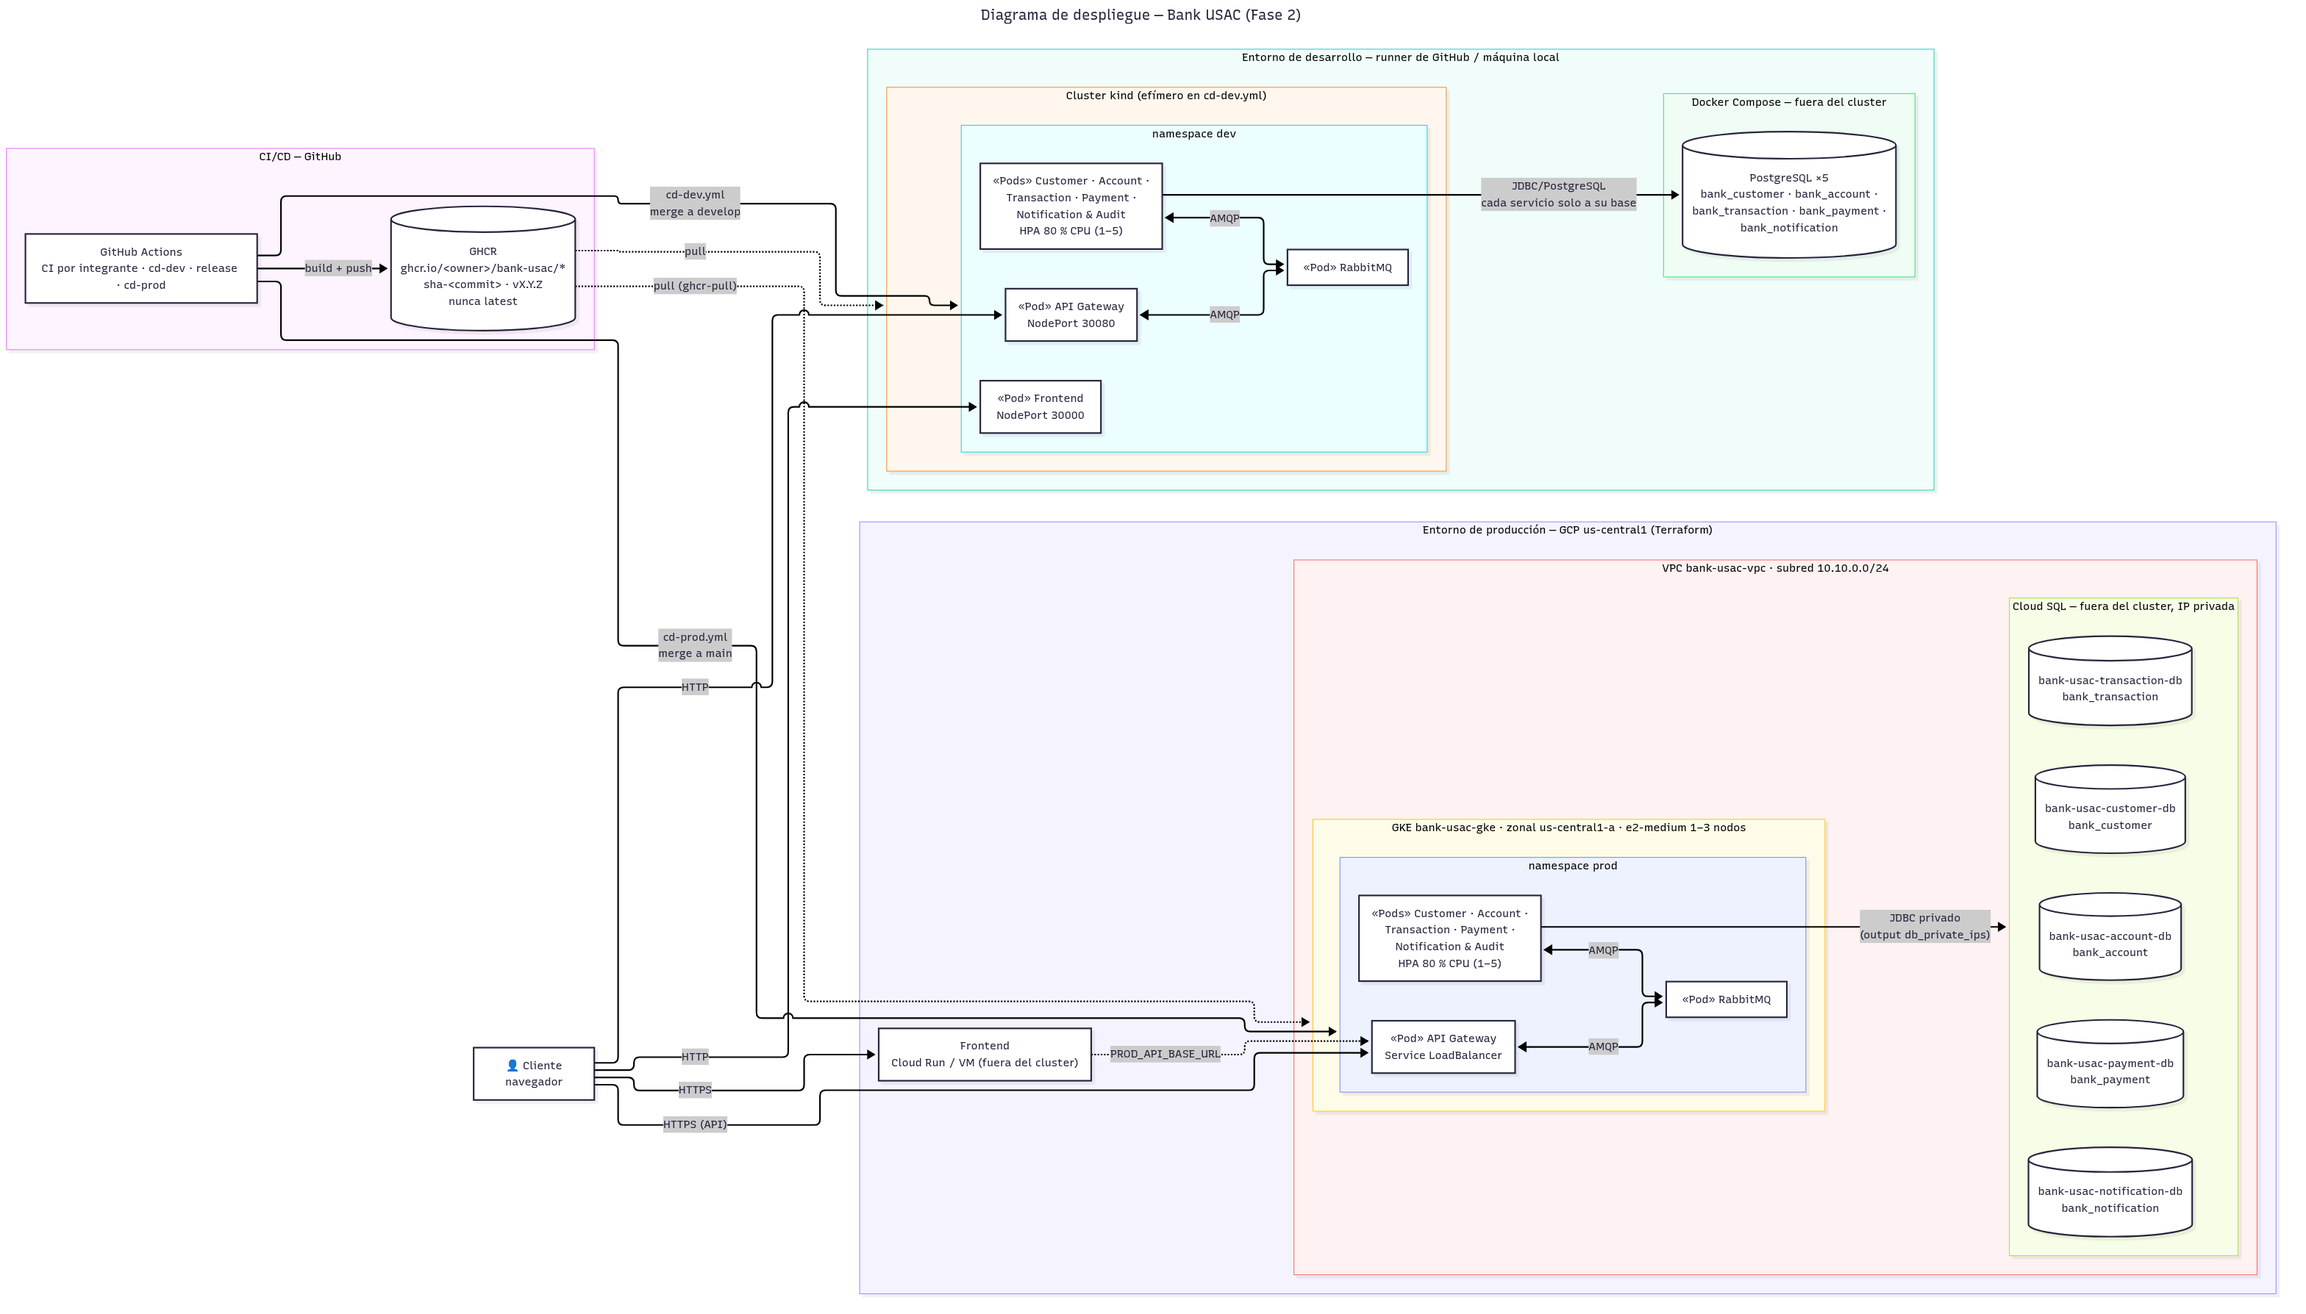
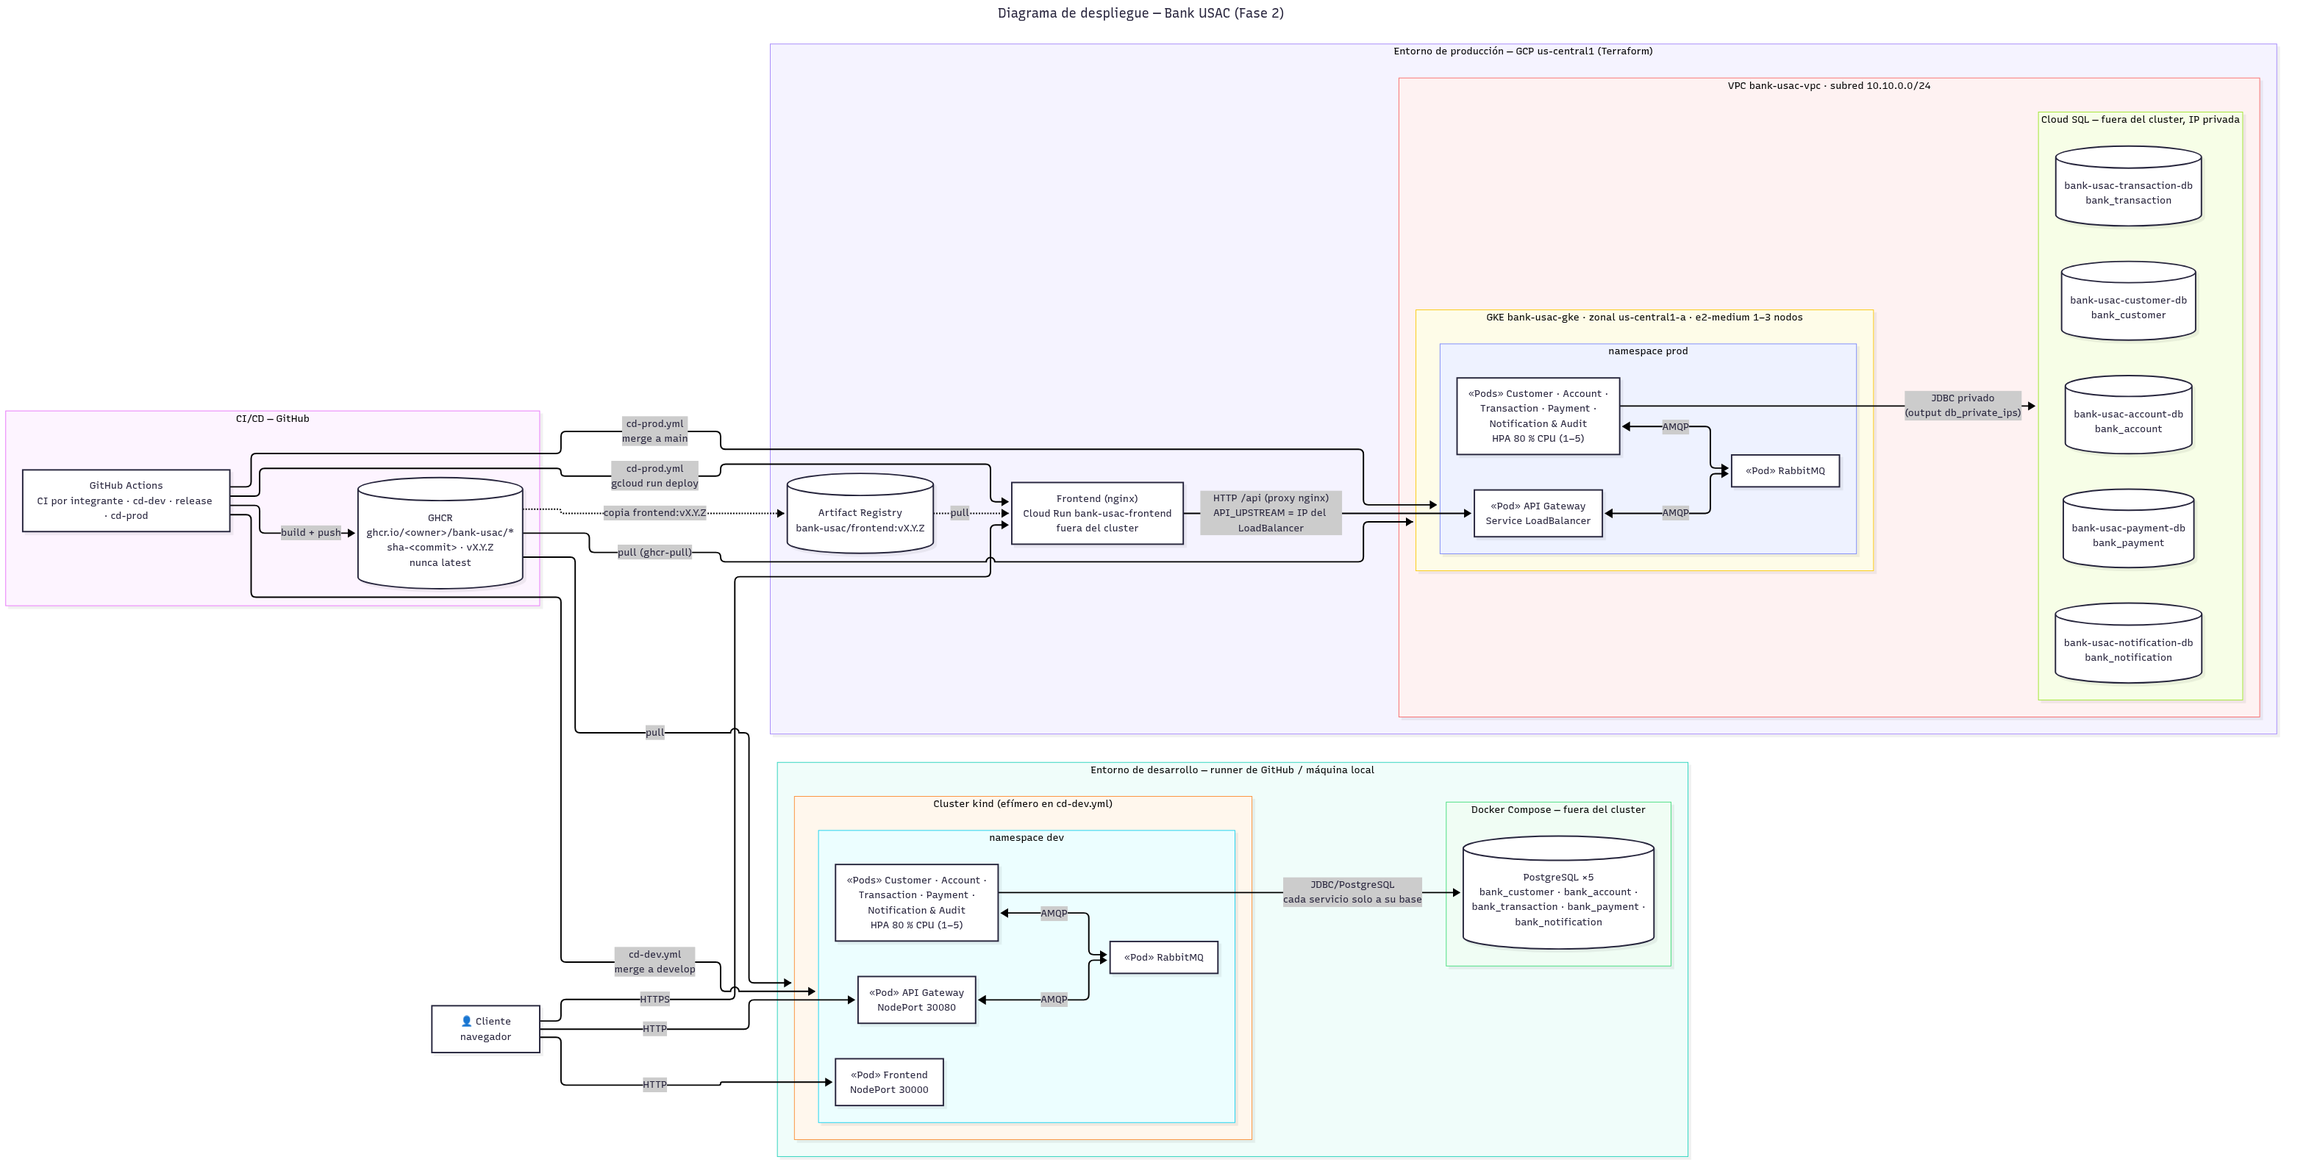
feat(prod): frontend en Cloud Run por pipeline (nginx con proxy /api, Artifact Registry en Terraform, cd-prod.yml) y diagramas/docs actualizados (Fase 2)

diff --git a/docs/04-despliegue/04-ci-cd.md b/docs/04-despliegue/04-ci-cd.md
@@ -128,7 +128,7 @@ Mientras no exista un cluster persistente, `reusable-kind-smoke.yml` crea un clu
 
 1. Crear la rama `release/X.Y.Z` desde `develop` (por ejemplo `release/2.0.0`) y hacer push.
 2. `release.yml` ejecuta, en orden:
-   1. **version:** valida que la rama se llame `release/X.Y.Z` y que el tag `vX.Y.Z` no exista. Avisa si falta la variable `PROD_API_BASE_URL`.
+   1. **version:** valida que la rama se llame `release/X.Y.Z` y que el tag `vX.Y.Z` no exista.
    2. **images:** construye y publica las 7 imágenes candidatas `:vX.Y.Z-rc.<n>` (`n` = número de ejecución del workflow).
    3. **smoke:** despliega las candidatas en kind y corre el smoke test (`reusable-kind-smoke.yml`).
    4. **promote:** copia cada candidata a `:vX.Y.Z` con `docker buildx imagetools create`. No recompila: la imagen final tiene el mismo digest que la que pasó el smoke test.
@@ -136,7 +136,7 @@ Mientras no exista un cluster persistente, `reusable-kind-smoke.yml` crea un clu
 3. Si el workflow falla antes de **promote**, `:vX.Y.Z` no existe: se corrige en la misma rama `release/X.Y.Z` y el push vuelve a ejecutarlo.
 4. Un tag publicado no se reescribe. Si hace falta un fix después, se abre `release/X.Y.(Z+1)`.
 
-La URL pública del Gateway que se compila en el frontend se toma de la variable del repositorio `PROD_API_BASE_URL` (Settings → Secrets and variables → Actions → Variables). Si no está definida, el frontend apunta a `http://localhost:8080` y el workflow lo avisa.
+El frontend de la release se compila sin URL del Gateway (`VITE_API_BASE_URL` vacío): llama a `/api` en su mismo origen y nginx lo reenvía al Gateway en producción. Así la misma imagen sirve para cualquier IP del Gateway.
 
 ## Producción
 
@@ -144,9 +144,9 @@ La URL pública del Gateway que se compila en el frontend se toma de la variable
 
 - Imágenes `ghcr.io/<owner>/bank-usac/<servicio>:vX.Y.Z`; `cd-prod.yml` fija la versión con `kustomize edit set image`.
 - Bases de datos en Cloud SQL por IP privada, puerto 5432 y los nombres de `infrastructure/terraform/cloudsql.tf`. Los hosts salen de `terraform output -json db_private_ips` y el Secret `bank-db-secret` lo crea el workflow; en git no hay credenciales.
-- El Gateway se publica con un Service `LoadBalancer`. El frontend no corre en el cluster: va en Cloud Run/VM y su URL del Gateway es la variable `PROD_API_BASE_URL` de `release.yml`.
+- El Gateway se publica con un Service `LoadBalancer`. El frontend no corre en el cluster: va en **Cloud Run** (`bank-usac-frontend`), con nginx sirviendo la SPA por HTTPS y reenviando `/api` al LoadBalancer del Gateway (`API_UPSTREAM`).
 
-`cd-prod.yml` (merge a `main`): toma el último tag `vX.Y.Z` alcanzable desde `main`, verifica que las 6 imágenes existan en GHCR, se autentica en GCP, crea el namespace, el Secret de DB y el acceso a GHCR (`ghcr-pull`), aplica el overlay y espera cada rollout. Si algo falla, imprime pods y logs.
+`cd-prod.yml` (merge a `main`): toma el último tag `vX.Y.Z` alcanzable desde `main`, verifica que las 7 imágenes existan en GHCR, se autentica en GCP, crea el namespace, el Secret de DB y el acceso a GHCR (`ghcr-pull`), aplica el overlay y espera cada rollout. Después publica el frontend: copia `frontend:vX.Y.Z` de GHCR a Artifact Registry (Cloud Run no descarga de GHCR; mismo tag, sin recompilar), lee la IP del LoadBalancer del Gateway y hace `gcloud run deploy` con `API_UPSTREAM=http://<IP>:8080`. Cloud Run crea una revisión nueva y mueve el tráfico cuando está lista. Al final comprueba que la SPA responda y que `/api/accounts` devuelva 401 (el proxy llega al Gateway), y deja las dos URL en el resumen del run. Si algo falla, imprime pods y logs.
 
 Configuración del repositorio (Settings → Secrets and variables → Actions):
 
@@ -157,6 +157,9 @@ Configuración del repositorio (Settings → Secrets and variables → Actions):
 | Secret | `GHCR_PULL_TOKEN` | Token con `read:packages` para que GKE descargue las imágenes |
 | Variable | `GKE_CLUSTER` / `GKE_LOCATION` | Nombre y zona del cluster |
 | Variable | `PROD_DB_PRIVATE_IPS` | Salida de `terraform output -json db_private_ips` |
+| Variable | `GAR_REPOSITORY` | Salida de `terraform output -raw frontend_registry` |
+| Variable | `FRONTEND_RUN_SA` | Salida de `terraform output -raw frontend_run_service_account` |
+| Variable | `GCP_REGION` | Región de Cloud Run (opcional, `us-central1` por defecto) |
 
 ## Rollback
 
@@ -164,12 +167,13 @@ Configuración del repositorio (Settings → Secrets and variables → Actions):
 - **Release fallida:** si falla antes de **promote** no se publicó ninguna versión final; las imágenes `-rc.<n>` solo son candidatas y no se despliegan en producción.
 - **Producción:** se vuelve a la versión anterior, que sigue publicada porque las imágenes `vX.Y.Z` nunca se sobrescriben.
   - Inmediato: `kubectl -n prod rollout undo deployment/<servicio>` regresa al ReplicaSet anterior con rolling update.
+  - Frontend: `gcloud run services update-traffic bank-usac-frontend --region us-central1 --to-revisions <revisión anterior>=100` (las revisiones anteriores se conservan).
   - Definitivo: volver a desplegar la versión anterior (`kustomize edit set image bank-usac/<servicio>=ghcr.io/<owner>/bank-usac/<servicio>:v<anterior>`), y corregir con una `release/X.Y.(Z+1)`.
 
 ## Pendiente (depende de la infraestructura de producción)
 
-- `terraform apply` de `infrastructure/terraform` (red, Cloud SQL y GKE; ver [Terraform](05-terraform-cloud-sql.md)) y la configuración de la tabla anterior. Hasta entonces `cd-prod.yml` se omite.
-- Despliegue del frontend en Cloud Run/VM.
+- `terraform apply` de `frontend.tf` (Artifact Registry y permisos de Cloud Run; ver [Terraform](05-terraform-cloud-sql.md)) y las variables `GAR_REPOSITORY` y `FRONTEND_RUN_SA` de la tabla anterior.
+- Primera release (`release/X.Y.Z` → tag → merge a `main`).
 
 ## Configuración del repositorio (una vez, requiere admin)
 

diff --git a/docs/04-despliegue/05-terraform-cloud-sql.md b/docs/04-despliegue/05-terraform-cloud-sql.md
@@ -1,6 +1,6 @@
 # Terraform — Infraestructura de producción en GCP (Fase 2)
 
-Toda la infraestructura de producción se crea con Terraform desde `infrastructure/terraform/`: red, bases de datos (Cloud SQL) y cluster de Kubernetes (GKE). Nada se crea a mano en la consola, salvo el bucket del estado (ver [Estado remoto](#estado-remoto)). Las decisiones y sus trade-offs están en los ADR-009 a ADR-012 de [Decisiones de arquitectura](../01-arquitectura/05-decisiones-arquitectura.md).
+Toda la infraestructura de producción se crea con Terraform desde `infrastructure/terraform/`: red, bases de datos (Cloud SQL), cluster de Kubernetes (GKE) y lo que usa el frontend en Cloud Run (Artifact Registry y permisos). Nada se crea a mano en la consola, salvo el bucket del estado (ver [Estado remoto](#estado-remoto)). Las decisiones y sus trade-offs están en los ADR-009 a ADR-012 de [Decisiones de arquitectura](../01-arquitectura/05-decisiones-arquitectura.md).
 
 ## Qué provisiona
 
@@ -15,6 +15,10 @@ Toda la infraestructura de producción se crea con Terraform desde `infrastructu
 | `gke.tf` | `google_container_cluster.gke` | Cluster `bank-usac-gke`, Standard **zonal** en `us-central1-a`, en `bank-usac-vpc`, canal `REGULAR`. El node pool por defecto se elimina |
 | `gke.tf` | `google_container_node_pool.primary` | Node pool `bank-usac-pool`: `e2-medium`, disco `pd-standard` de 30 GB, cluster autoscaler de 1 a 3 nodos, auto-repair y auto-upgrade |
 | `gke.tf` | `google_service_account.github_deployer` + `google_project_iam_member.github_deployer_gke` | Service account `github-deployer` con `roles/container.developer`, que usa `cd-prod.yml` para desplegar |
+| `frontend.tf` | `google_project_service.run` / `.artifactregistry` | Habilita las API de Cloud Run y Artifact Registry |
+| `frontend.tf` | `google_artifact_registry_repository.images` | Repositorio Docker `bank-usac` en `us-central1`, donde `cd-prod.yml` copia `frontend:vX.Y.Z` (Cloud Run no descarga de GHCR) |
+| `frontend.tf` | `google_service_account.frontend_run` | Identidad sin roles con la que corre el servicio Cloud Run `bank-usac-frontend` |
+| `frontend.tf` | IAM de `github-deployer` | `roles/artifactregistry.writer` en el repositorio, `roles/run.admin` y `roles/iam.serviceAccountUser` sobre `frontend-run`, para publicar la imagen y desplegar |
 
 El cluster va en la **misma VPC** que Cloud SQL porque el peering de Cloud SQL no es transitivo: desde otra VPC no se llegaría a las IP privadas de las bases.
 
@@ -40,6 +44,8 @@ El cluster va en la **misma VPC** que Cloud SQL porque el peering de Cloud SQL n
 | `gke_cluster_name` | Variable `GKE_CLUSTER` de GitHub |
 | `gke_location` | Variable `GKE_LOCATION` de GitHub |
 | `github_deployer_email` | Service account para crear la llave de `GCP_SA_KEY` |
+| `frontend_registry` | Variable `GAR_REPOSITORY` de GitHub (`us-central1-docker.pkg.dev/<proyecto>/bank-usac`) |
+| `frontend_run_service_account` | Variable `FRONTEND_RUN_SA` de GitHub |
 
 Las IP cambian en cada `apply` desde cero: siempre se leen de los outputs, no se copian en la documentación ni en los manifiestos.
 
@@ -72,7 +78,8 @@ Lo más simple es **Cloud Shell**, que ya trae `gcloud`, `terraform` y `git`.
    ```bash
    gcloud config set project elevated-range-509623-j8
    gcloud services enable compute.googleapis.com servicenetworking.googleapis.com \
-     sqladmin.googleapis.com container.googleapis.com iam.googleapis.com
+     sqladmin.googleapis.com container.googleapis.com iam.googleapis.com \
+     run.googleapis.com artifactregistry.googleapis.com
    ```
 2. Aplicar (unos 20–30 min: 5 Cloud SQL + GKE):
    ```bash
@@ -90,7 +97,7 @@ Lo más simple es **Cloud Shell**, que ya trae `gcloud`, `terraform` y `git`.
    Pegar el contenido en el secret `GCP_SA_KEY` y **borrar** `key.json`.
 4. Configurar GitHub (Settings → Secrets and variables → Actions), según [CI/CD — Producción](04-ci-cd.md#producción):
    - Secrets: `GCP_SA_KEY`, `PROD_DB_PASSWORD` (la misma de `TF_VAR_db_password`), `GHCR_PULL_TOKEN`.
-   - Variables: `GKE_CLUSTER`, `GKE_LOCATION`, `PROD_DB_PRIVATE_IPS` (de los outputs).
+   - Variables: `GKE_CLUSTER`, `GKE_LOCATION`, `PROD_DB_PRIVATE_IPS`, `GAR_REPOSITORY`, `FRONTEND_RUN_SA` (de los outputs).
 5. A partir de aquí, producción se despliega solo por pipeline: rama `release/X.Y.Z` → tag `vX.Y.Z` → merge a `main` → `cd-prod.yml`.
 
 Para borrar todo después de la calificación: `terraform destroy` (el bucket del estado se borra aparte).

diff --git a/docs/01-arquitectura/09-c4-contenedores-fase2.md b/docs/01-arquitectura/09-c4-contenedores-fase2.md
@@ -12,7 +12,7 @@ Fuente Mermaid: [`c4-src/c4-container.mmd`](c4-src/c4-container.mmd).
 
 | Contenedor | Tecnología | Responsabilidad |
 | ---------- | ---------- | --------------- |
-| Frontend | React + TypeScript, servido con `serve` en `:3000` | Shell con menú por rol, transferencias con seguimiento de estado, historial y módulos de cada integrante |
+| Frontend | React + TypeScript, servido con nginx en `:3000` (en prod también proxy de `/api` al Gateway) | Shell con menú por rol, transferencias con seguimiento de estado, historial y módulos de cada integrante |
 | API Gateway | NestJS `:8080` | Único punto de entrada HTTP: JWT, roles, propiedad de cuentas, `X-Correlation-Id`. Publica `transaction.transfer.requested` |
 | Customer | Spring Boot `:8081` | Registro, activación, login/JWT y estado KYC |
 | Account | NestJS `:3004` | Cuentas monetarias y de ahorro, reservas, saldo mínimo y comisión |
@@ -37,7 +37,8 @@ Entre microservicios no hay HTTP: la coordinación es por eventos (detalle en [c
 
 ## Despliegue
 
-- **Kubernetes:** todos los contenedores de aplicación, RabbitMQ y MailHog corren en el cluster. El namespace `dev` es un cluster kind efímero que crea `cd-dev.yml` en cada merge a `develop`; `prod` será GKE (pendiente del Terraform de Integrante 2).
+- **Kubernetes:** los microservicios, el API Gateway, RabbitMQ y MailHog corren en el cluster. El namespace `dev` es un cluster kind efímero que crea `cd-dev.yml` en cada merge a `develop` (ahí también corre el Frontend); `prod` es GKE (`bank-usac-gke`), desplegado por `cd-prod.yml`.
+- **Frontend en producción:** fuera del cluster, en Cloud Run (`bank-usac-frontend`). nginx sirve la SPA por HTTPS y reenvía `/api` al LoadBalancer del Gateway, así el navegador no mezcla HTTPS con HTTP.
 - **HPA:** los cinco microservicios escalan de 1 a 5 réplicas al 80 % de CPU, con rolling update `maxUnavailable: 0` / `maxSurge: 1` y probes HTTP.
 - **Bases de datos fuera del cluster:** una PostgreSQL por servicio (data ownership). En `dev` corren con Docker Compose; en `prod` son Cloud SQL (PostgreSQL 17) con IP privada en la VPC `bank-usac-vpc`. Las credenciales llegan por `bank-db-config` y `bank-db-secret`.
 - **CI/CD:** GitHub Actions construye las imágenes y las publica en GHCR con tag `sha-<commit>` (dev) o `vX.Y.Z` (release), nunca `latest`. El cluster despliega esas imágenes versionadas. Ver [CI/CD](../04-despliegue/04-ci-cd.md).

diff --git a/docs/01-arquitectura/05-decisiones-arquitectura.md b/docs/01-arquitectura/05-decisiones-arquitectura.md
@@ -81,3 +81,10 @@ El correo se envía por SMTP real hacia MailHog en desarrollo. Esto permite demo
 **Ventajas:** los mismos YAML que usa el despliegue local con kind se reutilizan en `dev` y `prod`; cada overlay solo cambia namespace, imágenes, configuración de DB y tipo de Service. `kubectl` trae Kustomize, así que no hay otra herramienta que instalar en los runners.
 
 **Coste / alternativas:** Helm permite plantillas y rollback por release (`helm rollback`), pero agrega una capa de plantillas para solo dos ambientes. El rollback se hace con `kubectl rollout undo` o redesplegando la versión anterior (ver [CI/CD](../04-despliegue/04-ci-cd.md#rollback)).
+
+## ADR-015 - Frontend de producción en Cloud Run con proxy nginx
+**Decisión:** el frontend de producción corre fuera del cluster, en Cloud Run (`bank-usac-frontend`). La imagen usa nginx: sirve la SPA y reenvía `/api` al LoadBalancer del Gateway (`API_UPSTREAM`). `cd-prod.yml` copia `frontend:vX.Y.Z` de GHCR a Artifact Registry y hace `gcloud run deploy`; Terraform (`frontend.tf`) crea el registro, la identidad del servicio y los permisos.
+
+**Ventajas:** Cloud Run es un servicio de despliegue rápido: HTTPS y dominio propios, escala a cero y cada despliegue crea una revisión nueva que recibe el tráfico cuando está lista (sin downtime y con rollback por revisión). El proxy deja la API en el mismo origen, así el navegador no bloquea llamadas HTTP desde una página HTTPS (contenido mixto) y no depende de CORS. La imagen no lleva compilada la IP del Gateway: el pipeline la lee del LoadBalancer en cada despliegue, así que la misma imagen probada en la release llega a producción.
+
+**Coste / alternativas:** una VM de Compute Engine con el contenedor evita Artifact Registry, pero hay que mantener el sistema operativo, abrir SSH al pipeline y resolver HTTPS a mano. Cloud Run no descarga de GHCR, por eso la imagen se copia a Artifact Registry (mismo tag, sin recompilar). El tramo de Cloud Run al Gateway es HTTP por la IP pública del LoadBalancer; para un entorno real se usaría un Ingress con certificado.

diff --git a/docs/architecture/deployment.md b/docs/architecture/deployment.md
@@ -16,7 +16,7 @@ Todo lo crea Terraform (`infrastructure/terraform`), dentro de la VPC **`bank-us
 - **Cluster GKE `bank-usac-gke`** (Standard zonal, `us-central1-a`, nodos `e2-medium` con autoscaler de 1 a 3), namespace **`prod`**. `cd-prod.yml` despliega ahí las imágenes `vX.Y.Z` en cada merge a `main`.
 - **Pods en `prod`:** API Gateway (Service `LoadBalancer`, la única entrada pública), Customer, Account, Transaction, Payment, Notification & Audit (los cinco con HPA al 80 % de CPU) y RabbitMQ.
 - **Bases de datos fuera del cluster: Cloud SQL**, una instancia PostgreSQL 17 por microservicio (`bank-usac-<servicio>-db`), con IP privada en la misma VPC. Cada servicio se conecta solo a la suya por JDBC/PostgreSQL privado; las IP salen del output `db_private_ips` de Terraform.
-- **Frontend fuera del cluster**, en Cloud Run o una VM: el navegador lo carga desde ahí y consume la API del Gateway por su IP pública (`PROD_API_BASE_URL`).
+- **Frontend fuera del cluster, en Cloud Run** (`bank-usac-frontend`, `us-central1`): nginx sirve la SPA por HTTPS y reenvía `/api` al LoadBalancer del Gateway (variable `API_UPSTREAM`), así el navegador no mezcla HTTPS con HTTP. La imagen es la misma `frontend:vX.Y.Z` de GHCR, copiada a **Artifact Registry** `bank-usac` porque Cloud Run no descarga de GHCR.
 
 ## Restricciones respetadas
 
